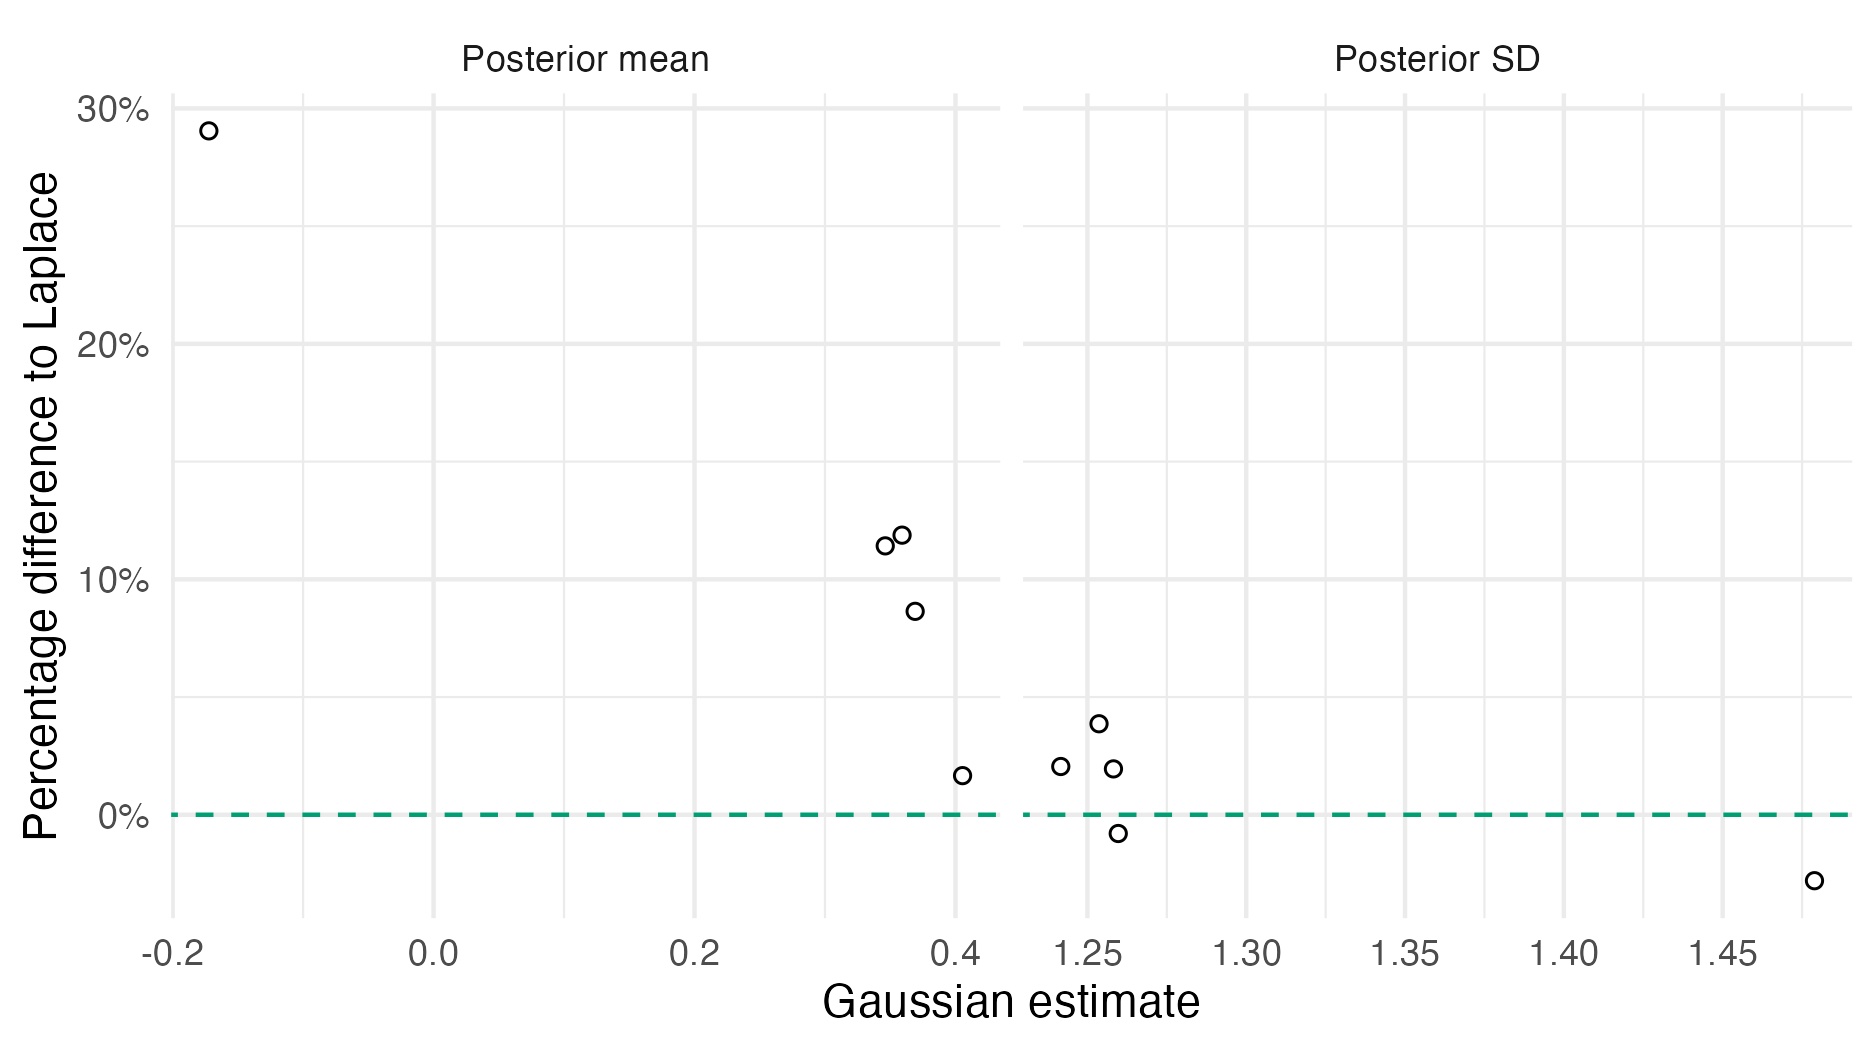
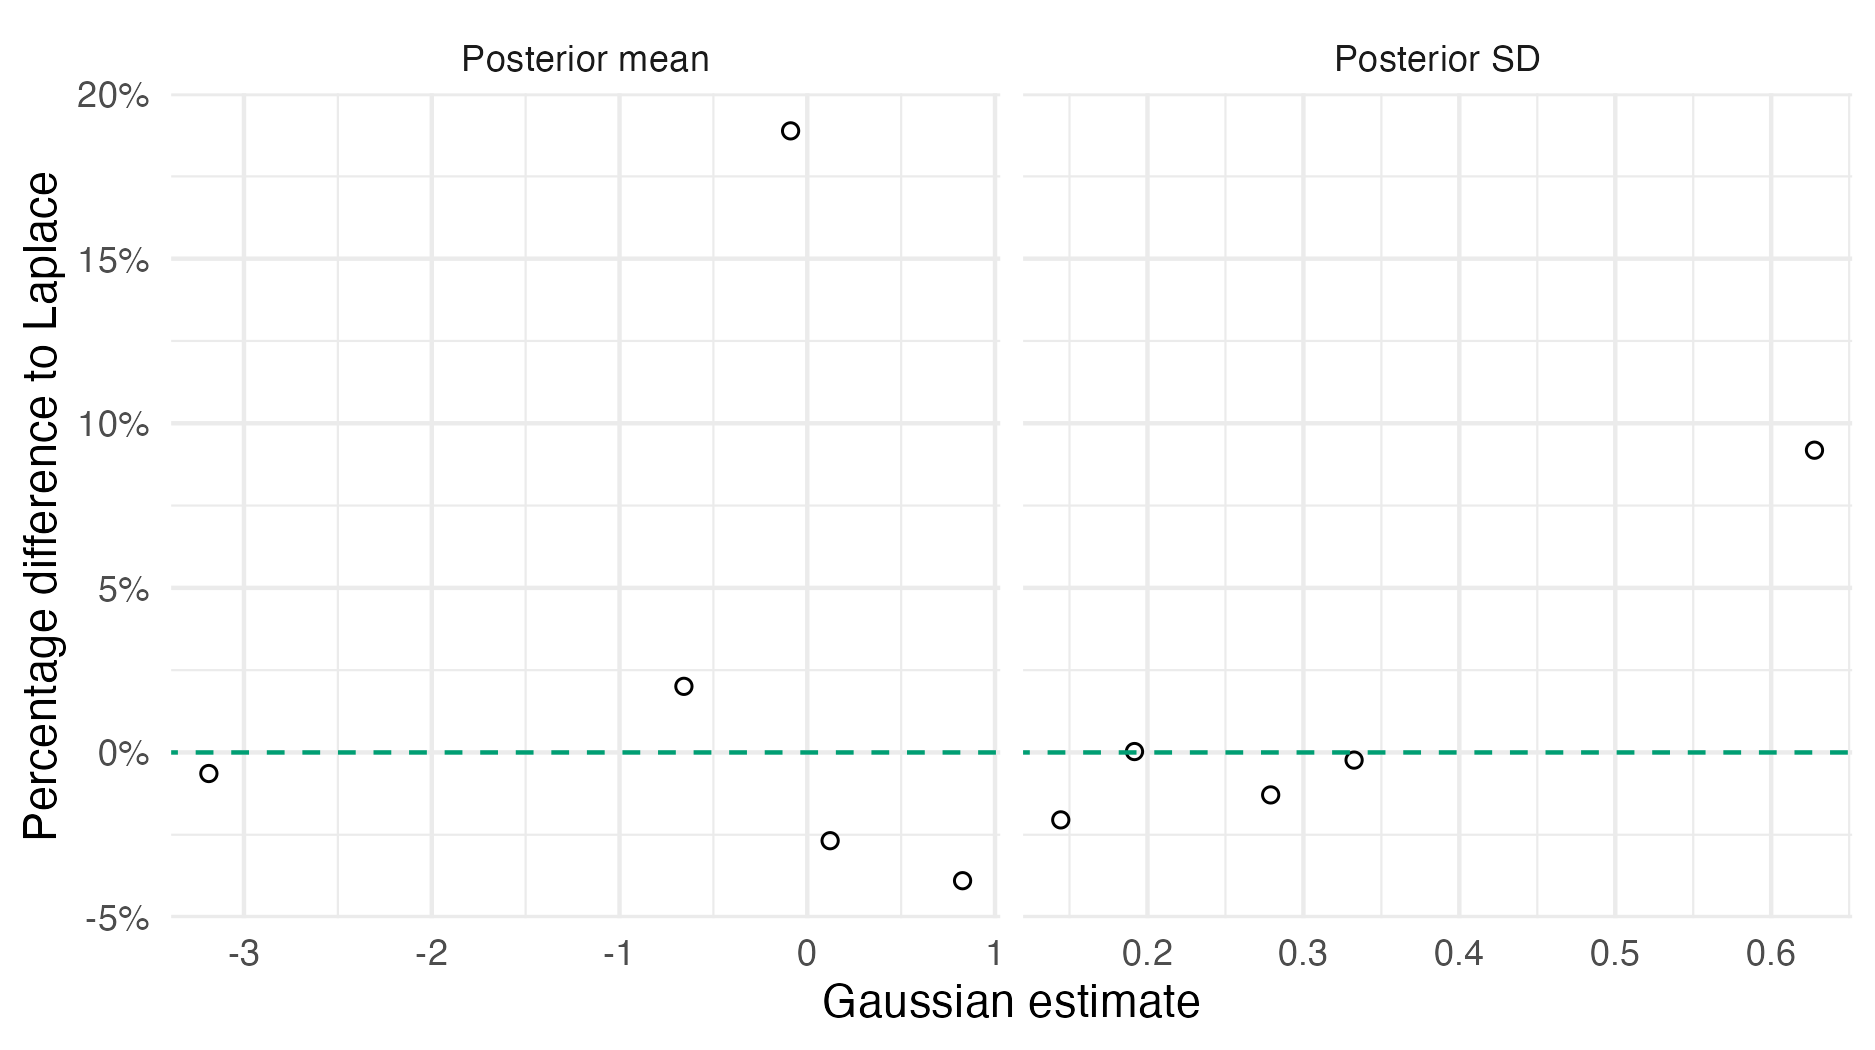
Now it works. Thanks TMB I'll never get those 4 hours back

diff --git a/figures/naomi-aghq/TMB/loaloazip_fixed_modified.cpp b/figures/naomi-aghq/TMB/loaloazip_fixed_modified.cpp
@@ -20,15 +20,18 @@ Type objective_function<Type>::operator() ()
   DATA_SCALAR(sigma_alpha);
   DATA_SCALAR(betaprec);
   
-  DATA_IVECTOR(W_starts);
-  DATA_IVECTOR(W_lengths);
-  DATA_INTEGER(i);
-  
   DATA_MATRIX(D); // Distance matrix for calculating matern
   
   // Params
+  // PARAMETER_VECTOR(W); // W = (U,V,beta); eta = design * W
   PARAMETER_VECTOR(betarisk);
   PARAMETER_VECTOR(betazi);
+  PARAMETER(logkappa); // Transformed matern params
+  PARAMETER(logtau);
+  
+  DATA_IVECTOR(W_starts);  // Start index of each subvector of x
+  DATA_IVECTOR(W_lengths); // Length of each subvector of x
+  DATA_INTEGER(i);         // Index i
   
   PARAMETER(W_i);
   PARAMETER_VECTOR(W_minus_i);
@@ -44,12 +47,9 @@ Type objective_function<Type>::operator() ()
     }
   }
   
-  vector<Type> Urisk = W.segment(W_starts(0), W_lengths(1));
-  vector<Type> Uzi = W.segment(W_starts(1), W_lengths(2));
+  vector<Type> Urisk = W.segment(W_starts(0), W_lengths(0));
+  vector<Type> Uzi = W.segment(W_starts(1), W_lengths(1));
 
-  PARAMETER(logkappa); // Transformed matern params
-  PARAMETER(logtau);
-  
   // Constants
   int n = y.size();
   double pi = 3.141592653589793115998;
